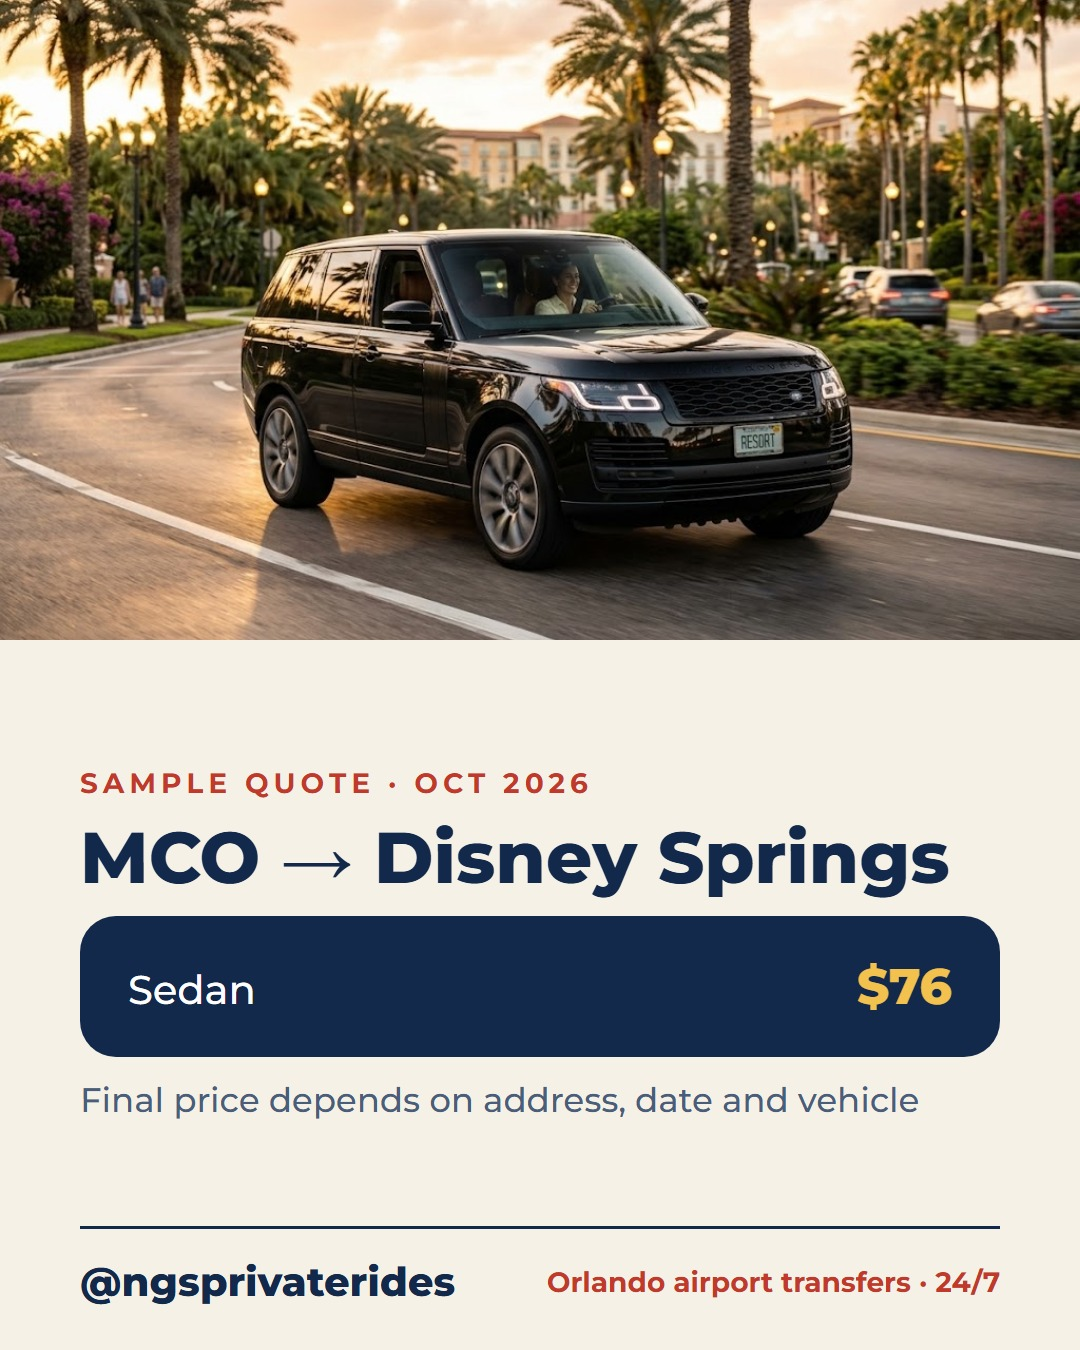
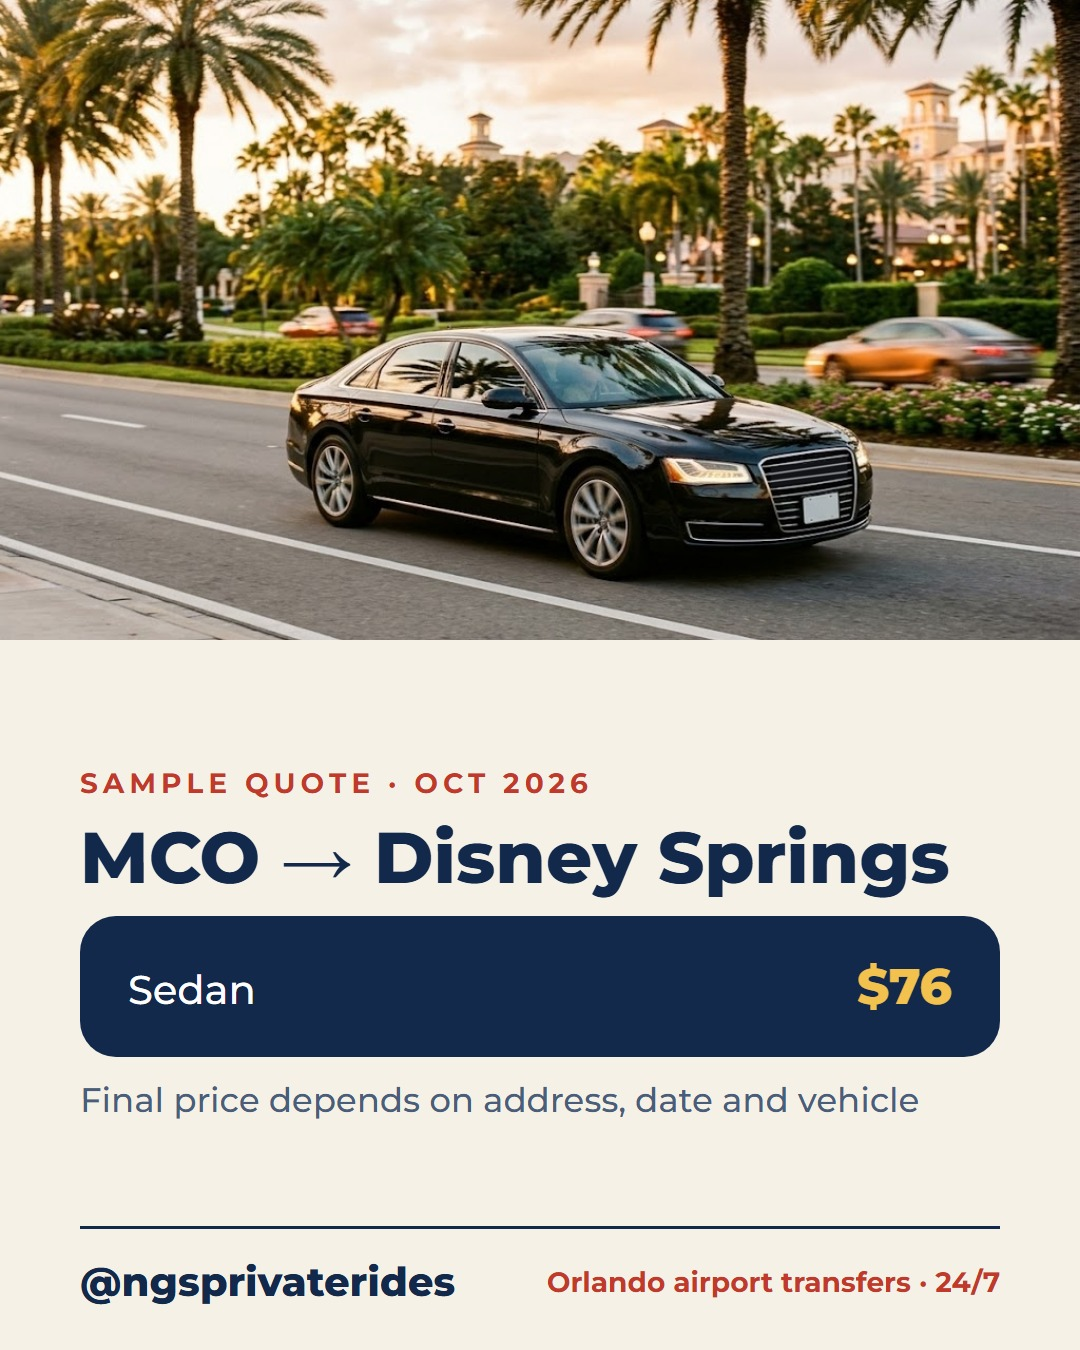
fix: price-disney-springs com foto de sedan (card dizia sedan e a foto era SUV)

diff --git a/tools/gemini-scenes.js b/tools/gemini-scenes.js
@@ -6,6 +6,7 @@ const scenes = {
   'port-pickup': 'Afternoon at a Florida cruise port: a large white cruise ship docked behind (no readable name). A friendly driver loading a family’s suitcases into the trunk of a clean black SUV while the tanned, relaxed family waits smiling. Palm trees. The driver is dressed smart casual: navy polo shirt tucked into dark blue jeans, brown belt, clean shoes. NO suit, NO tie, NO jacket. Nobody holds a sign.',
   'brazilian-family': 'Orlando airport arrivals curb OUTSIDE the terminal, bright day: a friendly driver warmly shaking hands with a smiling Brazilian family (parents, grandmother and two kids) with suitcases, right next to a clean black SUV with the trunk open. Palm trees and terminal blurred behind. The driver is dressed smart casual: navy polo shirt tucked into dark blue jeans, brown belt, clean shoes. NO suit, NO tie, NO jacket. Nobody holds a sign.',
   'resort-road': 'A clean black luxury SUV driving on a palm-lined boulevard in the Orlando resort area at golden hour, warm sunset light, lush landscaping, resort hotels softly blurred in the distance. Three-quarter front view, motion feel.',
+  'resort-road-sedan': 'A clean black full-size luxury four-door SEDAN (long low three-box saloon body with a separate trunk, low roofline, NOT an SUV, NOT a crossover, NOT a hatchback) driving on a palm-lined boulevard in the Orlando resort area at golden hour, warm sunset light, lush landscaping, resort hotels softly blurred in the distance. Three-quarter front view, motion feel. Realistic standard production car with accurate proportions, four round wheels and intact bodywork, no distortion. Blank license plate.',
   'phone-booking': 'A woman sitting on a sofa at home next to a packed suitcase and passports, smiling while booking something on her smartphone (screen not visible to camera). Bright, cozy living room, vacation anticipation mood.',
   'departures': 'Early morning at an airport departures curb in Florida, OUTSIDE the terminal: a friendly driver taking suitcases out of the trunk of a clean black SUV for a family about to fly home. Soft sunrise light, terminal glass behind. The driver is dressed smart casual: navy polo shirt tucked into dark blue jeans, brown belt, clean shoes. NO suit, NO tie, NO jacket. Nobody holds a sign.',
   'community-aerial': 'Aerial drone photo of a Central Florida vacation home community: rows of colorful stucco houses with tile roofs and private screened pools, palm trees, curving streets, a single clean black SUV driving on the street. Bright sunny day.',

diff --git a/cards/price-disney-springs.html b/cards/price-disney-springs.html
@@ -34,4 +34,4 @@ body.ph{padding:0}
 .ph .row{font-size:40px;padding:10px 0}
 .ph .row b{font-size:50px}
 .ph footer{margin-top:24px;padding:28px 0 44px}
-</style></head><body class="ph"><div class="photo" style="background-image:url('../photos/resort-road.jpg')"></div><div class="panel"><main><div class="tag">SAMPLE QUOTE · OCT 2026</div><h1>MCO → Disney Springs</h1><div class="box"><div class="row"><span>Sedan</span><b>$76</b></div></div><p class="note">Final price depends on address, date and vehicle</p></main><footer><b>@ngsprivaterides</b><small>Orlando airport transfers · 24/7</small></footer></div></body></html>
+</style></head><body class="ph"><div class="photo" style="background-image:url('../photos/resort-road-sedan.jpg')"></div><div class="panel"><main><div class="tag">SAMPLE QUOTE · OCT 2026</div><h1>MCO → Disney Springs</h1><div class="box"><div class="row"><span>Sedan</span><b>$76</b></div></div><p class="note">Final price depends on address, date and vehicle</p></main><footer><b>@ngsprivaterides</b><small>Orlando airport transfers · 24/7</small></footer></div></body></html>

diff --git a/tools/posts.js b/tools/posts.js
@@ -95,7 +95,7 @@ const posts = [
     en: `Two people with carry-ons and a family of six with checked bags don't need the same car.\n\nSedan for couples and light luggage. SUV for families with more bags. Minivan when the whole family comes. Van for groups. Not sure? Tell us people and bags and we'll point you to the right one.`,
     pt: `Um casal com mala de mão e uma família de seis com malas despachadas não precisam do mesmo carro.\n\nSedan para casal e pouca bagagem. SUV para família com mais malas. Minivan quando vem a família toda. Van para grupos. Na dúvida, diga pessoas e malas que a gente indica.` },
 
-  { slug: 'price-disney-springs', lang: 'en', type: 'price', photo: 'resort-road.jpg',
+  { slug: 'price-disney-springs', lang: 'en', type: 'price', photo: 'resort-road-sedan.jpg',
     label: 'SAMPLE QUOTE · OCT 2026', headline: 'MCO → Disney Springs',
     rows: [['Sedan', '$76']],
     note: 'Final price depends on address, date and vehicle',

diff --git a/tools/set-photos.js b/tools/set-photos.js
@@ -13,7 +13,7 @@ const map = {
   'tip-cruise': 'cruise.jpg', 'pt-cruzeiro': 'cruise.jpg',
   'tip-port-to-mco': 'port-pickup.jpg', 'list-cruise': 'port-pickup.jpg',
   'pt-portugues': 'brazilian-family.jpg', 'pt-quanto-custa': 'brazilian-family.jpg',
-  'price-disney-springs': 'resort-road.jpg', 'price-championsgate': 'resort-road.jpg',
+  'price-disney-springs': 'resort-road-sedan.jpg', 'price-championsgate': 'resort-road.jpg',
   'list-howto': 'phone-booking.jpg',
   'list-areas': 'community-aerial.jpg', 'card-local': 'community-aerial.jpg',
   'tip-luggage-hold': 'hotel-entrance.jpg',
